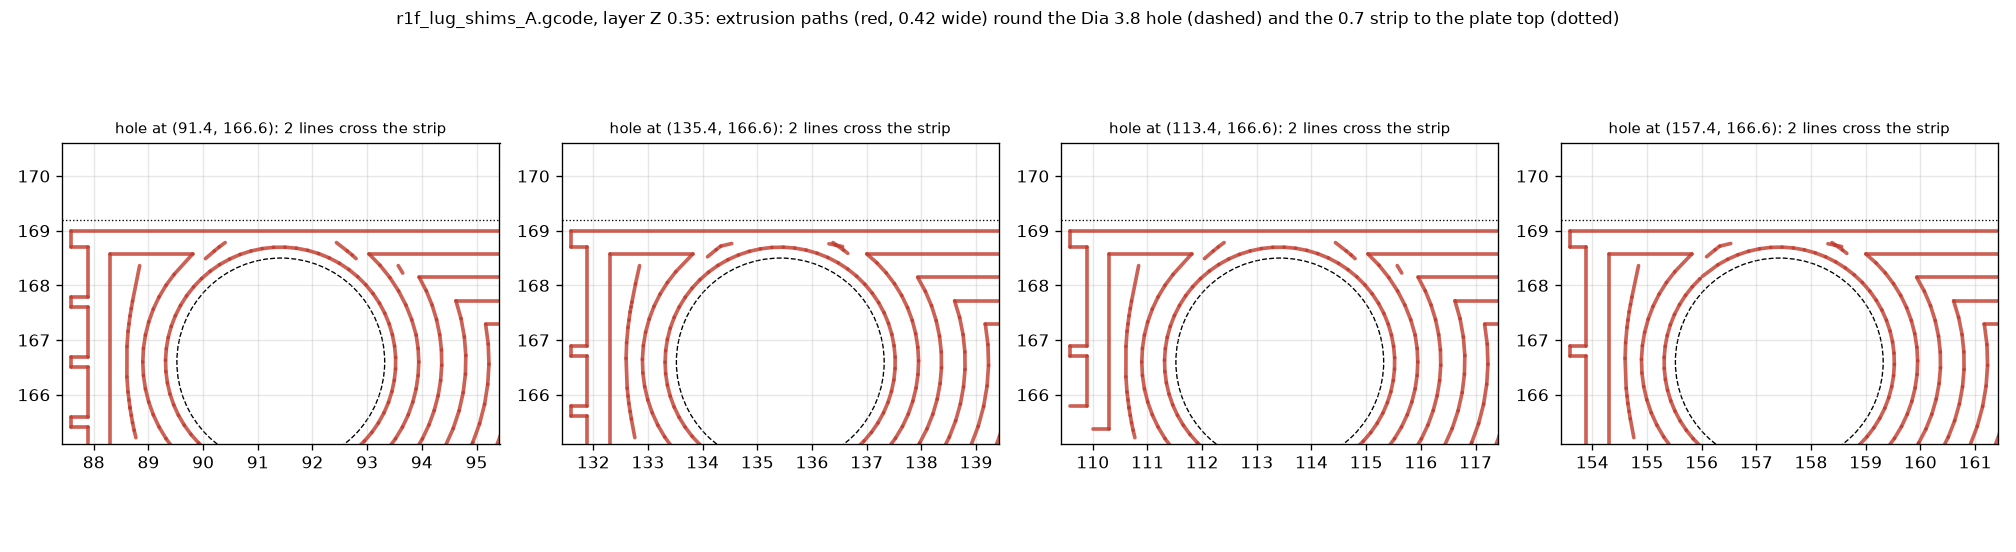
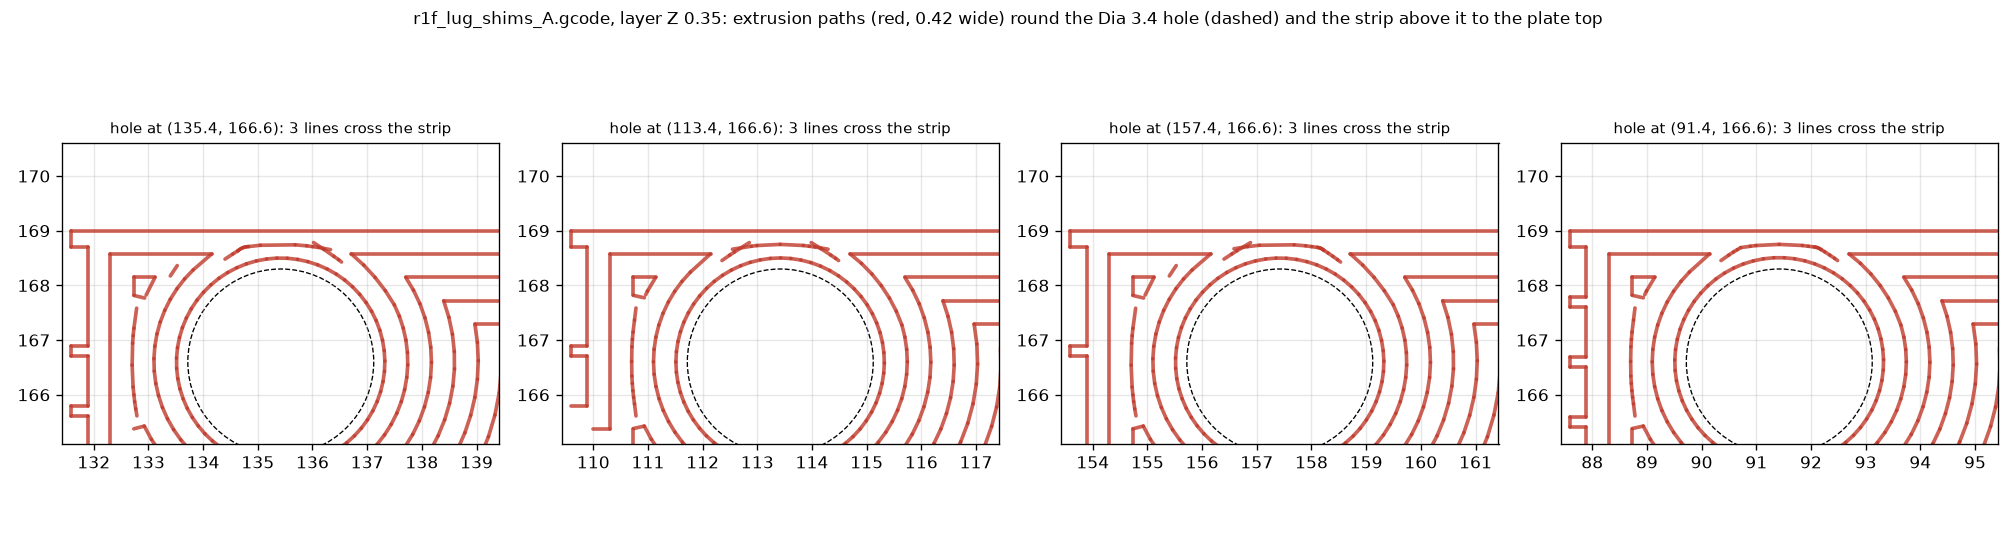
Lug plates re-sliced with a Dia 3.4 hole (r1g6: inside the hub's Dia 3.8 lug hole); 0.9 strip, sheet, slice preview, closing path (not released)

diff --git a/cad/scripts/arm/lug_shim_print.py b/cad/scripts/arm/lug_shim_print.py
@@ -3,8 +3,9 @@ by trial at assembly after the ring (zero yaw play). One shape fits all four pla
 and the other lug (both mirror images). Outline in the lug's own face (offset from the yaw axis, Y), for hub D3b / D3c4:
   - the main flat face X offset 18.96-34.2 x Y 288.2-294.6: 0.2 below the line where the hub's R1.2 Z-root fillet leaves the lug
     face (Y 294.8); no strip above it;
-  - a Dia 3.8 hole for the lug bolt (offset 23.0, Y 292.0): smaller than the insert's Dia 4.0 hole, so the plate holds the brass
-    insert captive against the bolt's pull; the strip above the hole is 0.7 (plate_ligament_check.py);
+  - a Dia 3.4 hole for the lug bolt (offset 23.0, Y 292.0; r1g6): smaller than the insert's Dia 4.0 hole, so the plate holds the
+    brass insert captive against the bolt's pull, and inside the hub's Dia 3.8 lug hole, so the lug's hole rim bears on flat plate
+    over the insert, never on the plate's own hole edge; the strip above the hole is 0.9 (plate_ligament_check.py);
   - a lower strip X offset 18.96-32.5 x Y 287.2-288.2 and a lip on it, a 0.8 wide x 1.2 high rib (X offset 19.5-32.5,
     Y 287.2-288.0, on the printed top face = the lug side) that hooks under the lug's free end (Y 288), so the plate stays put while
     the half closes; both stop at X offset 32.5, clear of our wall below the pocket floor (review 2026-11-13).
@@ -36,10 +37,10 @@ COPIES = int(os.environ.get('LUG_SHIM_COPIES', '4'))      # 4 of each = two full
 PLATES = {'A': (0.25, [0.25, 0.35, 0.45, 0.55, 0.65, 0.75] * COPIES), 'B': (0.20, [0.30, 0.40, 0.50, 0.60, 0.70] * COPIES)}
 OUT = Path(os.environ.get('LUG_SHIM_OUT', P.REPO / 'cad' / '_wip' / 'r1f_lug_shims'))
 Y0 = 288.0      # local origin: offset 0 at the yaw axis, Y at the lug's free end
-# r1g4 (2026-11-13, after the review): Dia 3.8 hole, smaller than the insert's Dia 4.0 hole, so the plate holds the insert captive
-# between it and the post; top Y 294.6 (0.2 below the hub's R1.2 root tangent line Y 294.8), so the strip above the hole is 0.7
-HOLE_R = float(os.environ.get('LUG_PLATE_HOLE_R', '1.9'))
-PLATE_TOP = float(os.environ.get('LUG_PLATE_TOP', '294.6'))      # back to 294.6 (coordinator 14:56Z): 0.2 below the R1.2 tangent line, 0.7 strip
+# r1g6 (2026-11-13, second review): Dia 3.4 hole inside the hub's Dia 3.8 lug hole (r1g4 had Dia 3.8 in a Dia 3.4 lug hole); smaller than the insert's Dia 4.0 hole, so the plate holds the insert captive
+# between it and the post; top Y 294.6 (0.2 below the hub's R1.2 root tangent line Y 294.8), so the strip above the hole is 0.9 (Dia 3.4)
+HOLE_R = float(os.environ.get('LUG_PLATE_HOLE_R', '1.7'))      # r1g6 (coordinator 20:11Z): Dia 3.4, inside the hub's Dia 3.8 lug hole
+PLATE_TOP = float(os.environ.get('LUG_PLATE_TOP', '294.6'))      # back to 294.6 (coordinator 14:56Z): 0.2 below the R1.2 tangent line
 
 
 def outline(t):

diff --git a/cad/scripts/arm/plate_slice_check.py b/cad/scripts/arm/plate_slice_check.py
@@ -22,6 +22,7 @@ m = trimesh.load(stl)
 sec = m.section(plane_origin=[0, 0, 0.1], plane_normal=[0, 0, 1])
 holes = [Polygon(e[:, :2]) for e in sec.discrete if 8.0 < Polygon(e[:, :2]).area < 14.0]
 hc = np.array([[h.centroid.x, h.centroid.y] for h in holes])
+HR = float(np.sqrt(np.mean([h.area for h in holes]) / np.pi))      # the hole radius as modelled
 # gcode: extrusion segments per layer
 segs, z, x, y, e_prev, cur = [], 0.0, 0.0, 0.0, 0.0, []
 rel_e = False
@@ -76,12 +77,12 @@ for ax, k in zip(np.atleast_1d(axs), order):
         if win[0] - 2 < x0_ < win[1] + 2 and win[2] - 2 < y0_ < win[3] + 2:
             ax.plot([x0_, x1_], [y0_, y1_], color='#c0392b', lw=2.2, alpha=0.8, solid_capstyle='round')
             # does this segment cross the vertical line through the hole centre above the hole (the strip)?
-            if (x0_ - c[0]) * (x1_ - c[0]) <= 0 and max(y0_, y1_) > c[1] + 1.6:
+            if (x0_ - c[0]) * (x1_ - c[0]) <= 0 and max(y0_, y1_) > c[1] + HR - 0.3:
                 n_cross += 1
-    ax.add_patch(plt.Circle(c, 1.9, fill=False, ls='--', color='k', lw=0.8))
-    ax.axhline(c[1] + 1.9 + 0.7, color='k', ls=':', lw=0.8)
+    ax.add_patch(plt.Circle(c, HR, fill=False, ls='--', color='k', lw=0.8))
+    top_ = float(m.bounds[1, 1]) - 0.0      # plate top in STL coordinates is per plate; draw the strip from the gcode outer perimeter instead
     ax.set_xlim(win[0], win[1]); ax.set_ylim(win[2], win[3]); ax.set_aspect('equal'); ax.grid(alpha=0.3)
     ax.set_title(f'hole at ({c[0]:.1f}, {c[1]:.1f}): {n_cross} lines cross the strip', fontsize=9)
-fig.suptitle(f'{gc.name}, layer Z {zpick:.2f}: extrusion paths (red, 0.42 wide) round the Dia 3.8 hole (dashed) and the 0.7 strip to the plate top (dotted)', fontsize=10)
+fig.suptitle(f'{gc.name}, layer Z {zpick:.2f}: extrusion paths (red, 0.42 wide) round the Dia {2 * HR:.1f} hole (dashed) and the strip above it to the plate top', fontsize=10)
 fig.tight_layout(); fig.savefig(outp, dpi=120)
 print(f'layer Z {zpick:.2f}; picture {outp}')

diff --git a/cad/scripts/fea/r1c/plates_close_stl.py b/cad/scripts/fea/r1c/plates_close_stl.py
@@ -1,7 +1,7 @@
 """Four lug plates with their lips, placed on the D3b lug faces, as one STL for close_path_r1c.py (HUB_STL) (review A5 / r1g4,
 2026-11-13). Outline as lug_shim_print.outline: main face X offset 18.96-34.2 x Y 288.2-TOP, lower strip X offset 18.96-32.5 x
 Y 287.2-288.2, bolt hole radius HOLE_R at (offset 23.0, Y 292.0); lip X offset 19.5-32.5 x Y 287.2-288.0, 1.2 tall toward the lug.
-    python plates_close_stl.py OUT_STL [T=0.45] [HOLE_R=1.9] [TOP=294.6]      (under capped.py)"""
+    python plates_close_stl.py OUT_STL [T=0.45] [HOLE_R=1.7] [TOP=294.6]      (under capped.py)"""
 import sys
 
 import trimesh
@@ -11,7 +11,7 @@ from shapely.ops import unary_union
 HX = 170.49
 out = sys.argv[1]
 t = float(sys.argv[2]) if len(sys.argv) > 2 else 0.45
-hr = float(sys.argv[3]) if len(sys.argv) > 3 else 1.9
+hr = float(sys.argv[3]) if len(sys.argv) > 3 else 1.7
 top = float(sys.argv[4]) if len(sys.argv) > 4 else 294.6
 LUG_Z = (1.0, 11.0)      # the lug's Z faces (CZ -+ 5.0)
 

diff --git a/cad/scripts/arm/plate_ligament_check.py b/cad/scripts/arm/plate_ligament_check.py
@@ -7,7 +7,7 @@ import sys
 
 LINE_W = 0.42        # Bambu P2S 0.4 nozzle default outer wall line width
 BOLT_Y = 292.0
-HOLE_R = float(os.environ.get('LUG_PLATE_HOLE_R', '1.9'))      # r1g4 Dia 3.8 (was 4.4)
+HOLE_R = float(os.environ.get('LUG_PLATE_HOLE_R', '1.7'))      # r1g6 Dia 3.4 (r1g4 3.8, R1g 4.4)
 PLATE_Y0, PLATE_Y1 = 288.2, float(os.environ.get('LUG_PLATE_TOP', '294.6'))
 ROOT_TANGENT_Y = 294.8   # hub R1.2 Z-root tangent
 
